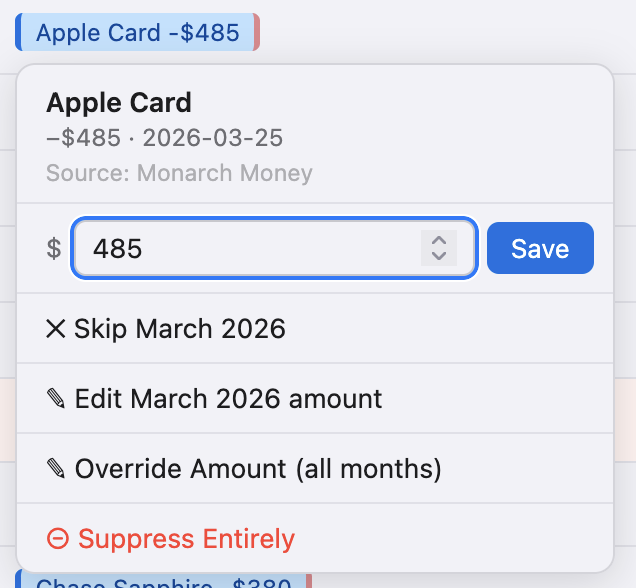
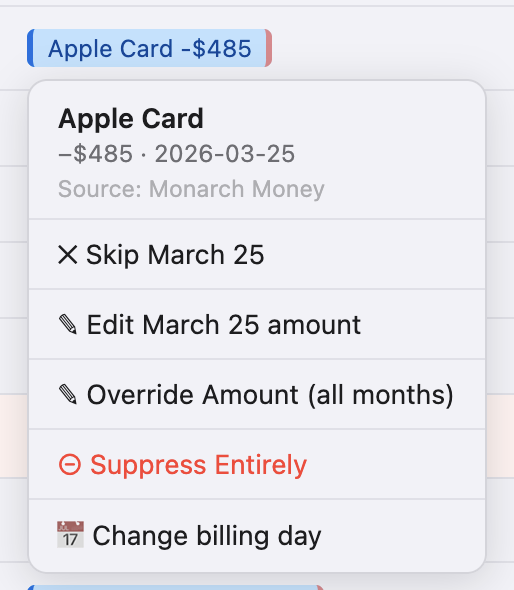
docs: update README and screenshots for v0.9.2
Rewrites README for Butterfly Effect v0.9.2 — updated title, feature
list, layout description (two-column viewport, AI drawer, resizable
columns, billing day overrides, startup page, security hardening) and
refreshes all eight dashboard/settings screenshots to match the new UI.

Changed region(s): [[0.0, 0.1531, 1.0, 1.0], [0.0, 0.0, 0.9339, 0.1224]]

diff --git a/README.md b/README.md
@@ -1,4 +1,4 @@
-# Balance Forecast BETA v0.8
+# Butterfly Effect v0.9.2
 
 > **Unofficial tool — not affiliated with or endorsed by Monarch Money, Inc. Use at your own risk.**
 
@@ -8,67 +8,97 @@ A self-hosted personal finance dashboard that pulls your **Monarch Money** accou
 
 ## What this tool does
 
-Balance Forecast reads your transaction history and recurring payment schedule from Monarch Money and projects your checking account balance forward in time — by default 45 days, configurable to any horizon you like. It highlights upcoming low-balance windows, lets you model one-off transfers or expenses, and can optionally generate AI-powered narrative insights about spending patterns and upcoming bills.
+Butterfly Effect reads your transaction history and recurring payment schedule from Monarch Money and projects your checking account balance forward in time — by default 45 days, configurable to any horizon you like. It highlights upcoming low-balance windows, lets you model one-off transfers or expenses, and can optionally generate AI-powered narrative insights about spending patterns and upcoming bills.
 
 Key capabilities:
 
 - **Forecast chart** — rolling balance projection based on your Monarch recurring schedule
 - **Variable Payments** — override the learned amount for credit cards or irregular bills
+- **Billing Day Overrides** — correct the day-of-month a recurring payment is expected
 - **Scenario Modeling** — add hypothetical transfers or expenses to see their impact
 - **AI Insights** (optional) — seasonal patterns, predicted expenses, transfer recommendations
-- **Calendar Integration** (optional) — overlay external Calendar events on the forecast
+- **Calendar Integration** (optional) — overlay external Calendar events on the forecast chart
 - **Dark mode**
 
 ---
 
 ## Screenshots
 
-### Balance forecast graph
+### Balance forecast — two-column layout
 
-The main dashboard projects your checking account balance forward 45 days (configurable). Stat cards show current balance, the projected low for the period, how many days fall below your configured buffer, and the buffer threshold itself. The chart draws a clear visual boundary at your buffer line — dips below it appear instantly.
+The main dashboard uses a fixed two-column layout. The left pane always shows your balance graph, stat cards, and transfer recommendations. The right pane scrolls independently through your upcoming transaction schedule.
 
-![Balance Forecast dashboard in light mode, showing the projected balance chart with a dip below the $2,000 buffer threshold](docs/screenshots/dashboard-light.png)
+![Balance Forecast dashboard in light mode, showing two-column layout with forecast chart on the left and scrollable transaction schedule on the right](docs/screenshots/dashboard-light.png)
+
+---
+
+### Resizable columns
+
+Drag the handle between the two panes to resize them. The left column stays within a minimum and maximum width to keep both panes usable.
 
 ---
 
 ### Inspecting the balance forecast graph
 
 Hover over any date on the balance graph to see that day's transactions.
+
 ![Graph node popup showing transactions for the given date](docs/screenshots/dashboard-tx-popup.png)
 
 ---
 
-### Transaction calendar
+### Transaction schedule
 
-A list of dates up to your forecast horizon with clickable transaction pills showing merchants & amounts.
+The right pane shows a scrollable agenda of upcoming dates with clickable transactions showing merchants and amounts. The last-refreshed timestamp appears in this pane's header.
 
-![Transactions appear on an agenda-like calendar](docs/screenshots/dashboard-tx-calendar.png)
-
----
-
-### Editing a transaction amount inline
-
-Click any transaction on the calendar to pop up an editing interface. Change single amounts, recurring amounts, suppress the series, or skip the transaction altogether. The forecast updates instantly when you save the changes.
-![Editing a transaction inline in the transaction calendar](docs/screenshots/dashboard-tx-edit.png)
+![Transaction schedule pane with date rows and clickable payment pills](docs/screenshots/dashboard-tx-calendar.png)
 
 ---
 
-### Transfer Advice & AI Insights (optional)
+### Editing a transaction inline
 
-Transfer recommendations are part of the forecast engine, recommending amounts and dates to transfer funds in to ensure a positive balance.
-The optional AI Insights panel displays actionable observations based on your historic transactions (going back a customizable number of months).
-It will point out where you can optimize spending, when savings is possible, and give advice. If it's confidently wrong like AI tends to be,
-the Corrections panel at the bottom of the card lets you hand-author facts, known quirks, and overrides that get injected into every AI analysis to fix its accuracy.
+Click any transaction pill to open the editing panel. Change single amounts, change recurring amounts, suppress the series, or skip a single occurrence. The forecast updates instantly when you save.
 
-![AI risk flags panel showing two warnings, seasonal notes section, and the Corrections panel with three entries](docs/screenshots/dashboard-txrecs-ai-insights.png)
+![Inline editing panel showing amount, skip, and suppress options](docs/screenshots/dashboard-tx-edit.png)
+
+---
+
+### AI Insights drawer
+
+Click **✦ AI Insights** in the header to slide the AI panel in from the right. It overlays the transaction schedule without shifting the graph. Transfer recommendations and seasonal spending observations appear here. The Corrections panel below lets you feed the AI specific facts about your finances to fix its accuracy.
+
+![AI Insights drawer open, showing risk flags, seasonal notes, and the Corrections panel](docs/screenshots/dashboard-txrecs-ai-insights.png)
+
+---
+
+### Scenario modeling
+
+Add one-off transfers or expenses to model their impact on the forecast without modifying your real data.
+
+![Scenario modeling panel with example transfer entry](docs/screenshots/dashboard-scenario-modeling.png)
+
+---
+
+### Dark mode
+
+Switch between light and dark mode from Settings or the moon icon in the header.
+
+![Balance Forecast dashboard in dark mode](docs/screenshots/dashboard-dark.png)
+
+---
+
+### Settings — first run
+
+On first launch the app opens directly to the Settings page, with the Monarch Connection section highlighted.
+
+![Settings page on first run showing Monarch Connection section highlighted with a blue border](docs/screenshots/settings-firstrun-setup.png)
 
 ---
 
 ### Settings — Monarch Connection
 
-Connect to Monarch via a temporary Chrome window, no credentials are saved by the app.
+Connect to Monarch via a temporary Chrome window. Your credentials go directly to Monarch — they are never seen or stored by this app.
 
-![Kick off a Monarch session to save the connection](docs/screenshots/settings-monarch-connection.png)
+![Settings Monarch Connection section showing Connect button and account dropdown](docs/screenshots/settings-monarch-connection.png)
 
 ![Browser window opens with Monarch login](docs/screenshots/settings-monarch-fetching.png)
 
@@ -76,18 +106,9 @@ Connect to Monarch via a temporary Chrome window, no credentials are saved by th
 
 ### Settings — AI Insights
 
-Configure your AI provider, model, and API key here. The **Last generated** line shows the timestamp, token counts, and cost of the most recent analysis. You can kick off a new analysis directly from this page and watch the live progress log without leaving Settings.
+Configure your AI provider, model, and API key here. The **Last generated** line shows the timestamp, token counts, and cost of the most recent analysis. You can kick off a new analysis directly from this page and watch the live progress log.
 
-![AI Insights settings panel showing provider selection, model, API key configuration, and Run AI Analysis button](docs/screenshots/settings-ai.png)
-
-
----
-
-### Dark mode — Dashboard
-
-Switch between light and dark modes easily.
-
-![Balance Forecast dashboard in dark mode, showing the same projected balance chart with a dark color scheme](docs/screenshots/dashboard-dark.png)
+![AI Insights settings panel showing provider selection, model, API key field, and Run AI Analysis button](docs/screenshots/settings-ai.png)
 
 ---
 
@@ -128,54 +149,59 @@ Click the **Code** button on this page and choose **Download ZIP**. Unzip it som
 ### Step 2 — Launch it
 
 **On Mac:**
-Double-click **`Start Balance Forecast.command`** in the folder. On first run it will take a couple of minutes to set up and open the Settings page in a browser - be patient and watch your terminal window for any dependency errors!
+Double-click **`Start Balance Forecast.command`** in the folder. A startup page opens in your browser while the app initializes. On first run it will take a couple of minutes to set up — watch the terminal window for any dependency errors.
 
 > The first time you open it, macOS may warn you it's from an unidentified developer. Right-click the file → **Open** → **Open** to proceed. You only need to do this once.
 
 **On Linux:**
 Right-click **`run.sh`** in your file manager → **Run as Program** (the exact wording depends on your desktop). Or open a Terminal, navigate to the folder, and enter `./run.sh`.
 
-The launcher will automatically:
-- Set up a Python environment
-- Install all required packages
-- Open your browser to the Settings page
+The launcher automatically:
+- Detects Python and shows a friendly error page if it's missing or too old
+- Sets up a Python virtual environment
+- Installs all required packages
+- Opens a startup page in your browser, then redirects to the app once it's ready
 
 ### Step 3 — Connect to Monarch
 
-On first launch your browser will open directly to the **Settings** page. The **Monarch Connection** section (highlighted with a blue border) is the only required step:
+On first launch your browser opens directly to the **Settings** page. The **Monarch Connection** section (highlighted with a blue border) is the only required step:
 
 1. Click **Connect to Monarch** — a Chrome browser window will open automatically. Log in to Monarch when prompted; the window closes on its own after a successful login (~30–60 seconds).
 2. Wait for your eligible Monarch accounts to populate, then select your **primary bill pay account** from the dropdown that appears. Click **Save Monarch Settings** to complete the setup.
 
-Once these two steps are complete, the **Go to Dashboard →** button at the top of the page will turn green. Click it to pull transactions and open your forecast - again, this may take 30 seconds or so. Patience, grasshopper.
+Once these two steps are complete, the **Go to Dashboard →** button at the top of the page will turn green. Click it to pull transactions and open your forecast — this may take 30 seconds or so on first run.
 
-> Down further on the Settings page are **AI Insights** and **Forecast Settings**. These are both optional on first run and can always be customized later. The forecast defaults work just fine to start.
+> Down further on the Settings page are **AI Insights** and **Forecast Settings**. These are both optional on first run and can always be customized later.
 
 ### Step 4 — View & customize your first forecast
 
-The first time you open the dashboard after setup the app fetches your transaction history from Monarch. Your forecast chart will appear at the top of the dashboard when it's done. After the first run, your data stays cached so the dashboard loads instantly on future visits.
+The first time you open the dashboard the app fetches your transaction history from Monarch. Your forecast chart will appear at the top of the left pane when it's done. After the first run, your data stays cached so the dashboard loads instantly on future visits.
 
 ---
 
 ## Day-to-day use
 
-**Starting the app:** Double-click **`Start Balance Forecast.command`** (Mac) or run `./run.sh` (Linux). Your browser will open automatically. I recommend bookmarking `http://localhost:5002` as well.
+**Starting the app:** Double-click **`Start Balance Forecast.command`** (Mac) or run `./run.sh` (Linux). A startup page opens in your browser and redirects automatically once the server is ready. You can also bookmark `http://localhost:5002`.
 
 **Refresh Forecast** — click the button in the upper right whenever you want updated transaction data from Monarch. Takes 1–2 minutes.
 
 **Run AI Analysis** — generates fresh AI insights. Run this once a day or whenever you want an updated analysis. Requires an AI API key in Settings → AI Insights.
 
+**AI Insights drawer** — click **✦ AI Insights** in the header to slide the panel in over the transaction schedule. Click it again (or the × inside) to close it.
+
+**Resize columns** — drag the vertical handle between the two panes to adjust how much width each side gets.
+
 **Settings** — everything is configurable from the Settings page. Key options:
 
 | Setting | Description |
 |---|---|
-| Primary Account | Select the account used for bill payments - refresh the list if you don't see it |
-| AI Insights | Enable AI Insights (off by default); set your preferred provider (Anthropic, OpenAI, or Google), choose your preferred model and add your API key; set the default number of transaction months to retrieve for analysis;  customize how long before the analysis is labeled as stale. You can also kick off an AI Analysis right from Settings and see it run in a status window |
+| Primary Account | Select the account used for bill payments — refresh the list if you don't see it |
+| AI Insights | Enable AI Insights (off by default); set your preferred provider (Anthropic, OpenAI, or Google), choose your preferred model and add your API key; set the default number of transaction months to retrieve for analysis; customize how long before the analysis is labeled as stale. You can also kick off an AI Analysis right from Settings and see it run in a status window |
 | Forecast Horizon | How many days to project forward (default: 45) |
 | Buffer Threshold | Get a warning when your balance drops below this dollar amount |
-| User Context & AI Corrections | Hand-edit your AI corrections in free text (also stored in user_context.md) |
-| Calendar Integration | Overlay custom calendar transaction events onto the forecast chart with Google Calendar, iCloud, or a custom ICS feed. |
-| App Settings | Change the default port, turn on debug mode, restart the server, or reset to factory defaults. |
+| User Context & AI Corrections | Hand-edit your AI corrections in free text (also stored in `user_context.md`) |
+| Calendar Integration | Overlay custom calendar transaction events onto the forecast chart with Google Calendar, iCloud, or a custom ICS feed |
+| App Settings | Change the default port, turn on debug mode, or reset to factory defaults |
 
 ---
 
@@ -195,7 +221,7 @@ All three providers work. Anthropic's Claude is recommended because the prompt i
 
 1. Go to [console.anthropic.com](https://console.anthropic.com/) and sign up or sign in.
 2. In the left sidebar click **API Keys**.
-3. Click **Create Key**, give it a name (e.g. "Balance Forecast"), and click **Create Key**.
+3. Click **Create Key**, give it a name (e.g. "Butterfly Effect"), and click **Create Key**.
 4. Copy the key — it starts with `sk-ant-api03-…`. **You won't be able to see it again after closing this dialog**, so copy it now.
 5. In the app go to **Settings → AI Insights**, set the provider to **Anthropic**, and paste the key into the API Key field. Click **Save AI Settings**.
 
@@ -228,11 +254,16 @@ Google AI Studio keys include a generous free tier. Usage beyond the free tier i
 
 ## Features
 
+- **Two-column fixed-viewport layout** — graph, stat cards, and transfer recommendations always visible on the left; transaction schedule scrolls independently on the right
+- **Resizable columns** — drag the handle between panes to fit your screen
+- **AI Insights drawer** — slides in over the schedule on demand; doesn't disturb the layout when closed
 - **Forecast balance chart** with recurring payments projected forward, configurable to any number of days
 - **AI insights** (optional) — seasonal spending patterns, predicted upcoming expenses, transfer recommendations to maintain a balance above your configured buffer amount
 - **Variable Payments** — override Monarch's learned amount for variable monthly payments like credit cards; enter $0 to suppress a payment from the forecast entirely for a month
+- **Billing Day Overrides** — correct the day-of-month for any recurring payment whose billing date Monarch has learned incorrectly
 - **Scenario Modeling** — temporarily model one-time transfers or expenses to see how they affect your balance forecast
 - **Corrections & Context** — feed the AI specific facts about your finances to improve its accuracy
+- **Startup page** — animated loading screen with helpful error messages if Python is missing or dependencies fail to install
 - **Dark mode** — toggle in Settings or with the moon icon in the header
 
 ---
@@ -240,6 +271,8 @@ Google AI Studio keys include a generous free tier. Usage beyond the free tier i
 ## Troubleshooting
 
 **"Setup needed" error on the dashboard** — click **→ Open Settings** in the error box and complete the Monarch Connection section (connect to Monarch and select your primary account).
+
+**Startup page shows a Python error** — follow the on-screen instructions to install Python 3.11 or later. On Mac, the page includes a Homebrew one-liner you can copy directly into Terminal.
 
 **Forecast is slow** — this is normal on first run. The app opens a browser, logs into Monarch, and fetches months of transaction history. Subsequent loads use a cached session and are much faster.
 
@@ -263,10 +296,9 @@ Here is exactly where data flows and where it is stored:
 
 ### Authentication & Monarch connection
 
-1. You enter your Monarch email and password into a chrome window just to capture the session data — they are never transmitted to any server other than Monarch's own login endpoint.
-2. When you click **Connect to Monarch**, a Chromium browser window opens on your machine. You log in directly to `app.monarchmoney.com` — your credentials go from your keyboard to Monarch's servers, nowhere else.
-3. After a successful login, Playwright saves your session cookies to `browser_state.json` in the app folder. Subsequent data fetches use this saved session (headless, no visible window) to avoid repeated logins.
-4. All future data fetches go directly from your computer to `api.monarch.com` — the same GraphQL endpoint your browser uses when you visit Monarch normally.
+1. When you click **Connect to Monarch**, a Chromium browser window opens on your machine. You log in directly to `app.monarchmoney.com` — your credentials go from your keyboard to Monarch's servers, nowhere else.
+2. After a successful login, Playwright saves your session cookies to `browser_state.json` in the app folder. Subsequent data fetches use this saved session (headless, no visible window) to avoid repeated logins.
+3. All future data fetches go directly from your computer to `api.monarch.com` — the same GraphQL endpoint your browser uses when you visit Monarch normally.
 
 ### Data storage (all files are local, in the app folder)
 
@@ -277,9 +309,16 @@ Here is exactly where data flows and where it is stored:
 | `config.yaml` | App preferences (account ID, forecast horizon, etc.) | **Never** |
 | `insights.json` | AI analysis output | Only if you configure an AI provider |
 | `payment_overrides.json` | Your variable payment amounts | **Never** |
+| `payment_day_overrides.json` | Your billing day corrections | **Never** |
 | `scenarios.json` | Scenario modeling events | **Never** |
 | `monarch_accounts_cache.json` | Account names and IDs from Monarch | **Never** |
 | `user_context.md` | Corrections you feed to the AI | Only if you configure an AI provider |
+
+All sensitive files are written with owner-only permissions (`chmod 600`) so other users on the same machine cannot read them.
+
+### Security
+
+The local web server uses CSRF tokens to protect all state-changing API calls. Every form submission and data-mutation request from the browser is validated against a per-session token that outside pages cannot read. Response headers (`X-Frame-Options`, `X-Content-Type-Options`, `Referrer-Policy`) are set on all API routes.
 
 The app runs a local web server at `http://localhost:5002` by default. This server is only accessible from your own computer — it does not listen on a network interface accessible to other devices.
 
@@ -322,6 +361,7 @@ Your AI API key is stored only in `.env` on your device. It is sent only to your
 | `browser_state.json` | Saved Monarch login session |
 | `insights.json` | Latest AI analysis output |
 | `payment_overrides.json` | Variable payment amounts you've set |
+| `payment_day_overrides.json` | Billing day corrections |
 | `scenarios.json` | Scenario modeling events |
 | `monarch_accounts_cache.json` | Cached account list from Monarch |
 | `user_context.md` | Corrections and facts injected into AI prompts |
